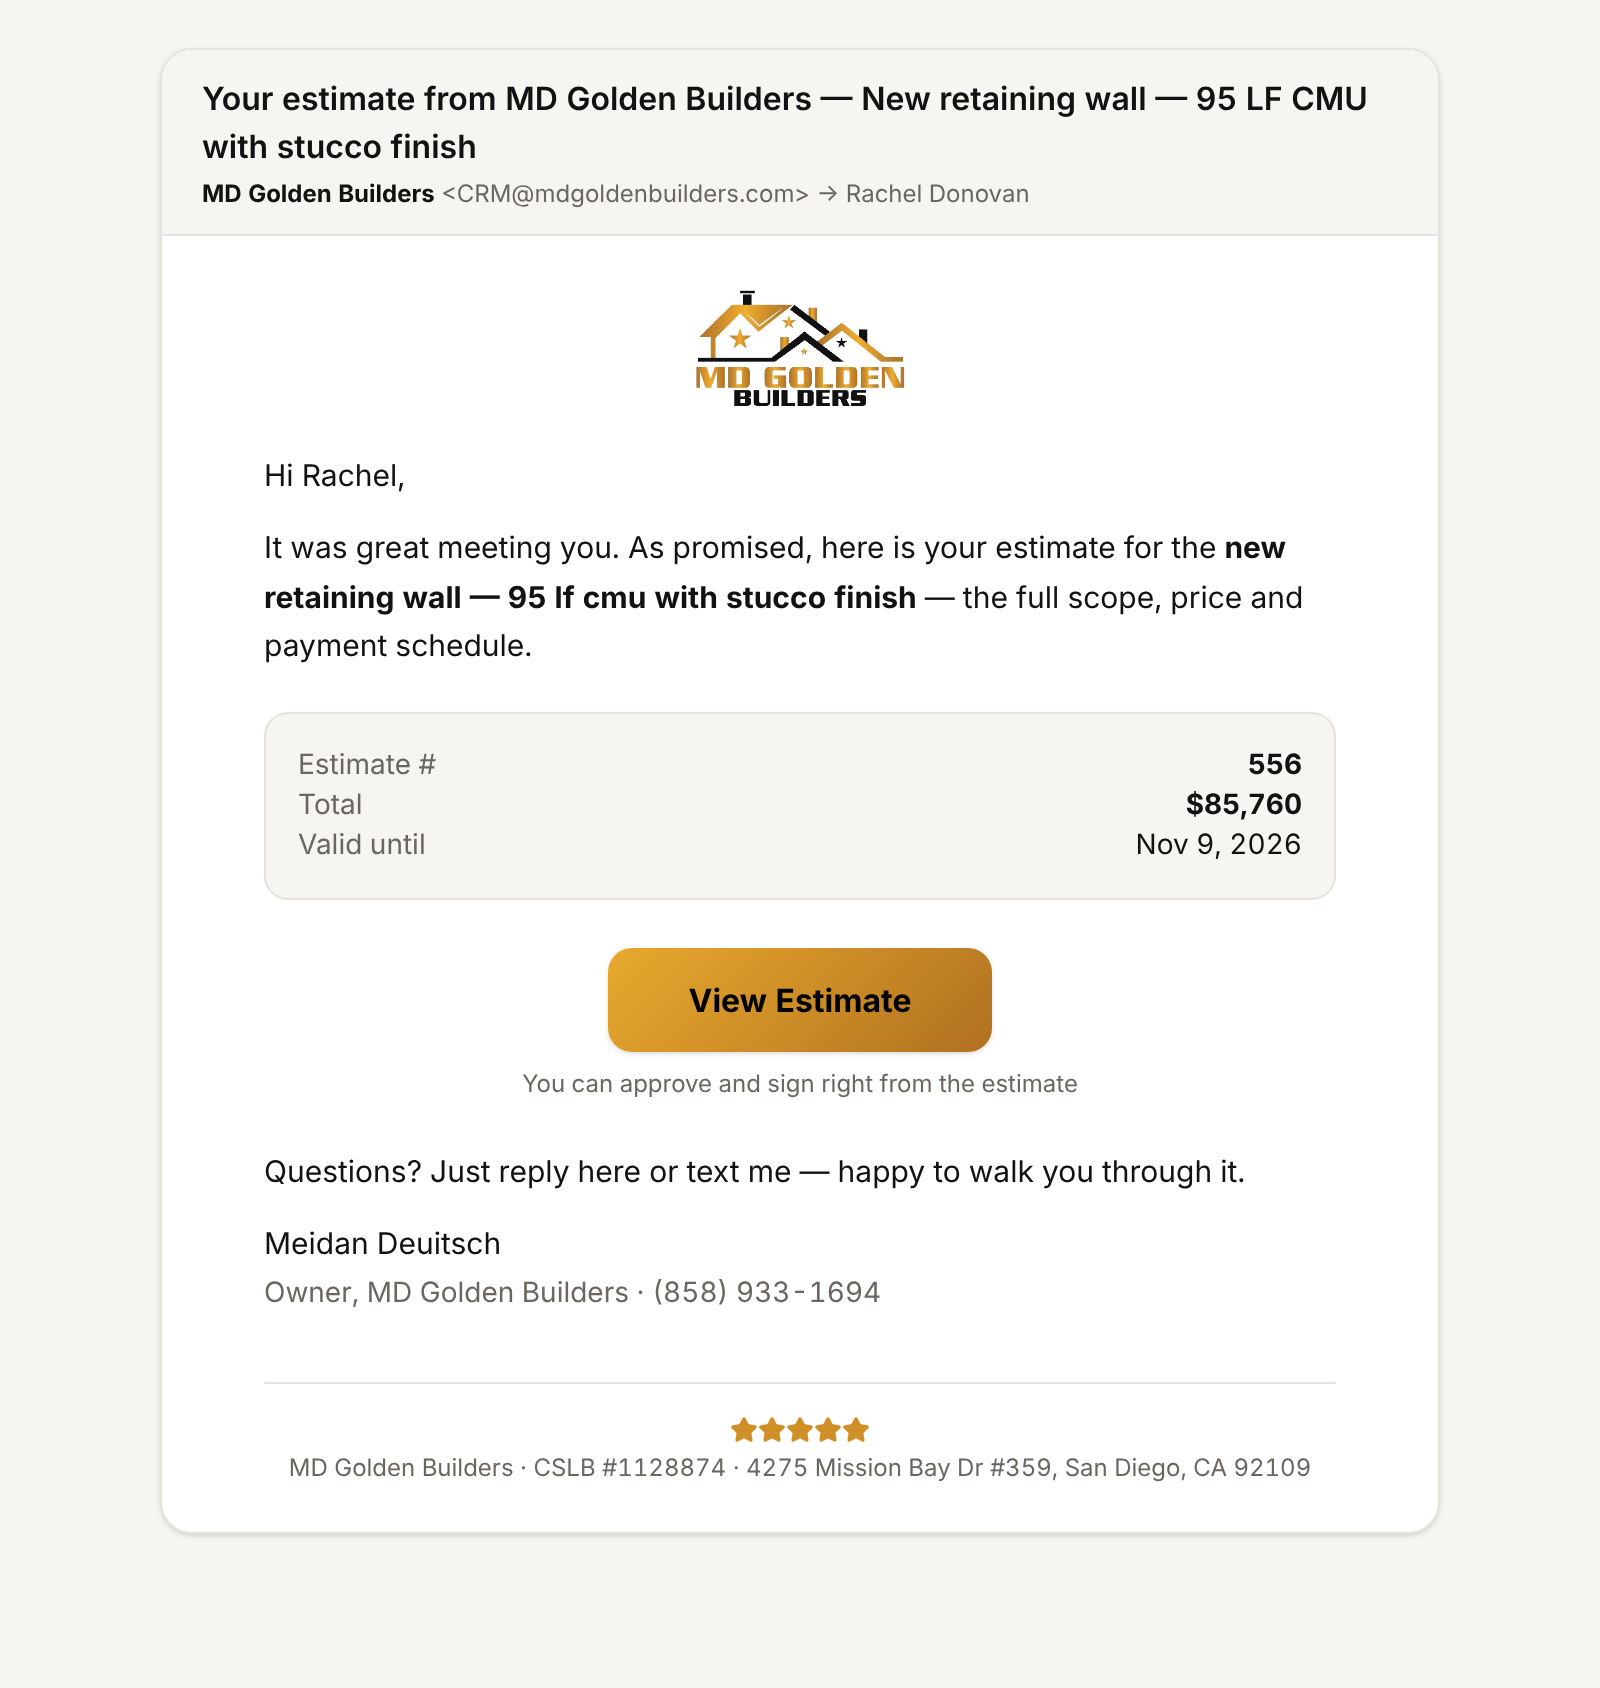
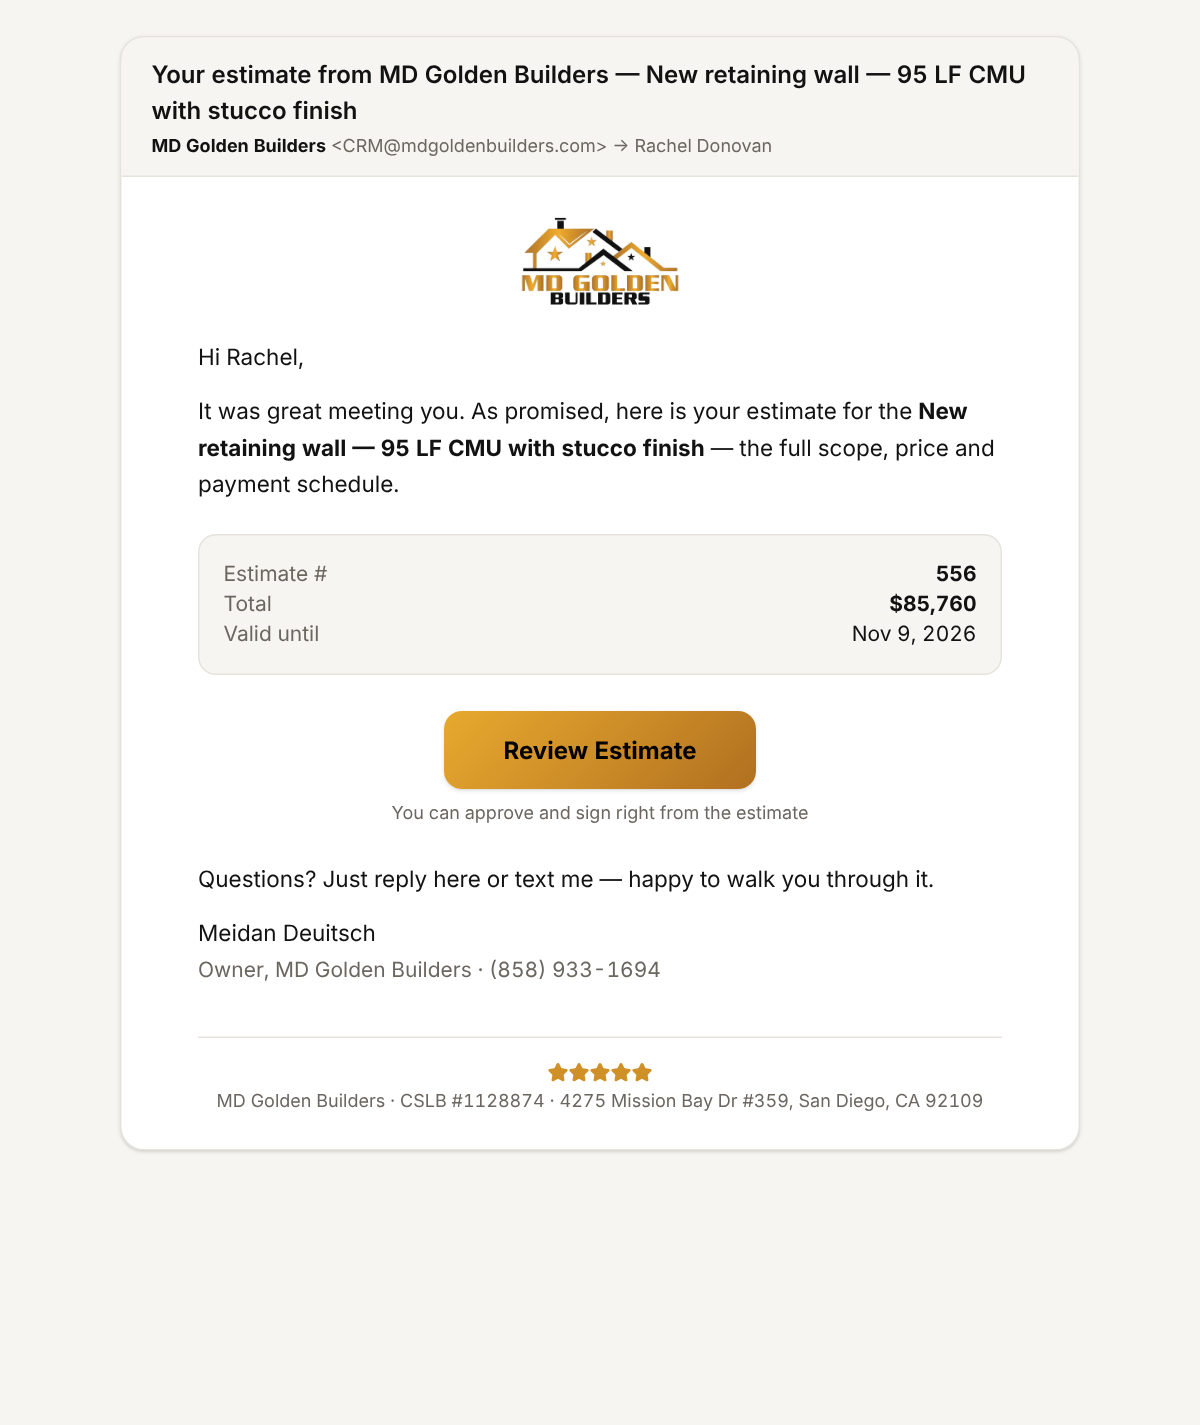
Review Estimate button, project page screenshots, round 10 decisions
Claude-Session: https://claude.ai/code/session_01FWP9vEZ3MdPGUBuhGCAjT9

diff --git a/src/app/p/email/[id]/page.tsx b/src/app/p/email/[id]/page.tsx
@@ -89,7 +89,7 @@ export default async function EmailPreview({ searchParams }: { searchParams: Pro
   );
 }
 
-/** Estimate email: one button, "View Estimate" — approving and signing happens inside. */
+/** Estimate email: one button, "Review Estimate" — approving and signing happens inside. */
 function EstimateEmail() {
   return (
     <div className="mx-auto max-w-2xl px-4 py-6">
@@ -102,14 +102,14 @@ function EstimateEmail() {
           {/* eslint-disable-next-line @next/next/no-img-element */}
           <img src="/logo-light.png" alt="MD Golden Builders" className="mx-auto mb-5 h-16 w-auto" />
           <p>Hi {E.customer.first},</p>
-          <p className="mt-3">It was great meeting you. As promised, here is your estimate for the <b>{E.title.toLowerCase()}</b> — the full scope, price and payment schedule.</p>
+          <p className="mt-3">It was great meeting you. As promised, here is your estimate for the <b>{E.title}</b> — the full scope, price and payment schedule.</p>
           <div className="mt-5 rounded-xl border border-border bg-surface p-4 text-sm">
             <div className="flex justify-between"><span className="text-muted">Estimate #</span><b>{E.number}</b></div>
             <div className="flex justify-between"><span className="text-muted">Total</span><b>{money(E.base)}</b></div>
             <div className="flex justify-between"><span className="text-muted">Valid until</span><span>{E.validUntil}</span></div>
           </div>
           <div className="my-6 text-center">
-            <a href="/p/estimate/demo" className="gold-gradient inline-block rounded-xl px-10 py-3.5 text-base font-bold text-black shadow">View Estimate</a>
+            <a href="/p/estimate/demo" className="gold-gradient inline-block rounded-xl px-10 py-3.5 text-base font-bold text-black shadow">Review Estimate</a>
             <div className="mt-2 text-xs text-muted">You can approve and sign right from the estimate</div>
           </div>
           <p>Questions? Just reply here or text me — happy to walk you through it.</p>

diff --git a/src/app/(app)/documents/new/page.tsx b/src/app/(app)/documents/new/page.tsx
@@ -140,7 +140,7 @@ export default async function NewDocumentPage({ searchParams }: { searchParams: 
               {type === "contract" && <label className="flex items-center gap-2"><input type="checkbox" defaultChecked /> Sign it as MD Golden Builders before sending</label>}
             </div>
             <div className="mt-4 rounded-lg bg-surface p-3 text-xs text-muted">
-              Button in the email: <b className="text-text">{type === "estimate" || type === "change-order" ? "View " + t.title : "Review & Sign"}</b>
+              Button in the email: <b className="text-text">{type === "estimate" || type === "change-order" ? "Review " + t.title : "Review & Sign"}</b>
               <br />After signing: {isSub ? "copy to the sub + saved to the project" : type === "estimate" ? "choose how to pay the deposit → contract follows" : type === "contract" ? "signed PDF to everyone + welcome email" : "signed copy + payment schedule updated"}
             </div>
             <div className="mt-4 grid gap-2">

diff --git a/docs/MASTER_PROMPT.md b/docs/MASTER_PROMPT.md
@@ -469,7 +469,7 @@ export) → match job name → project; ask the owner which sub when unclear.
 
 ## 20. Discovery round 8 (2026-10-11)
 
-- **Email buttons:** contract email → "Review & Sign Contract"; estimate email → "View Estimate"
+- **Email buttons:** contract email → "Review & Sign Contract"; estimate email → "Review Estimate"
   (Approve & sign lives inside the estimate page). Preview: `/p/email/demo?type=estimate`.
 - **Additional Description must look formal** (it is the whole project): double gold/black page
   frame, faint logo watermark, contract-no/date/page box, parties table, numbered sections
@@ -505,7 +505,14 @@ export) → match job name → project; ask the owner which sub when unclear.
   Auto-checks: deposit limit, schedule sums to price, 65+ → 5-day cancel.
 - Customer messages: removed the "takes ~3 minutes" line.
 
-## 22. Working rules for me
+## 22. Round 10 (2026-10-11)
+
+- Estimate email button: **"Review Estimate"** (contract: "Review & Sign Contract").
+- **Subcontractor agreements: 1-year workmanship warranty** from every sub (standard clause).
+- **Document numbering:** YYYY-NNN running number (e.g. 2026-041), shared by project/contract.
+- **After estimate approval + deposit choice, the contract is sent automatically** (no review step).
+
+## 23. Working rules for me
 
 - Work on branch `claude/project-management-system-g36bde`; small, clear commits.
 - Never hard-code secrets; use env vars.
